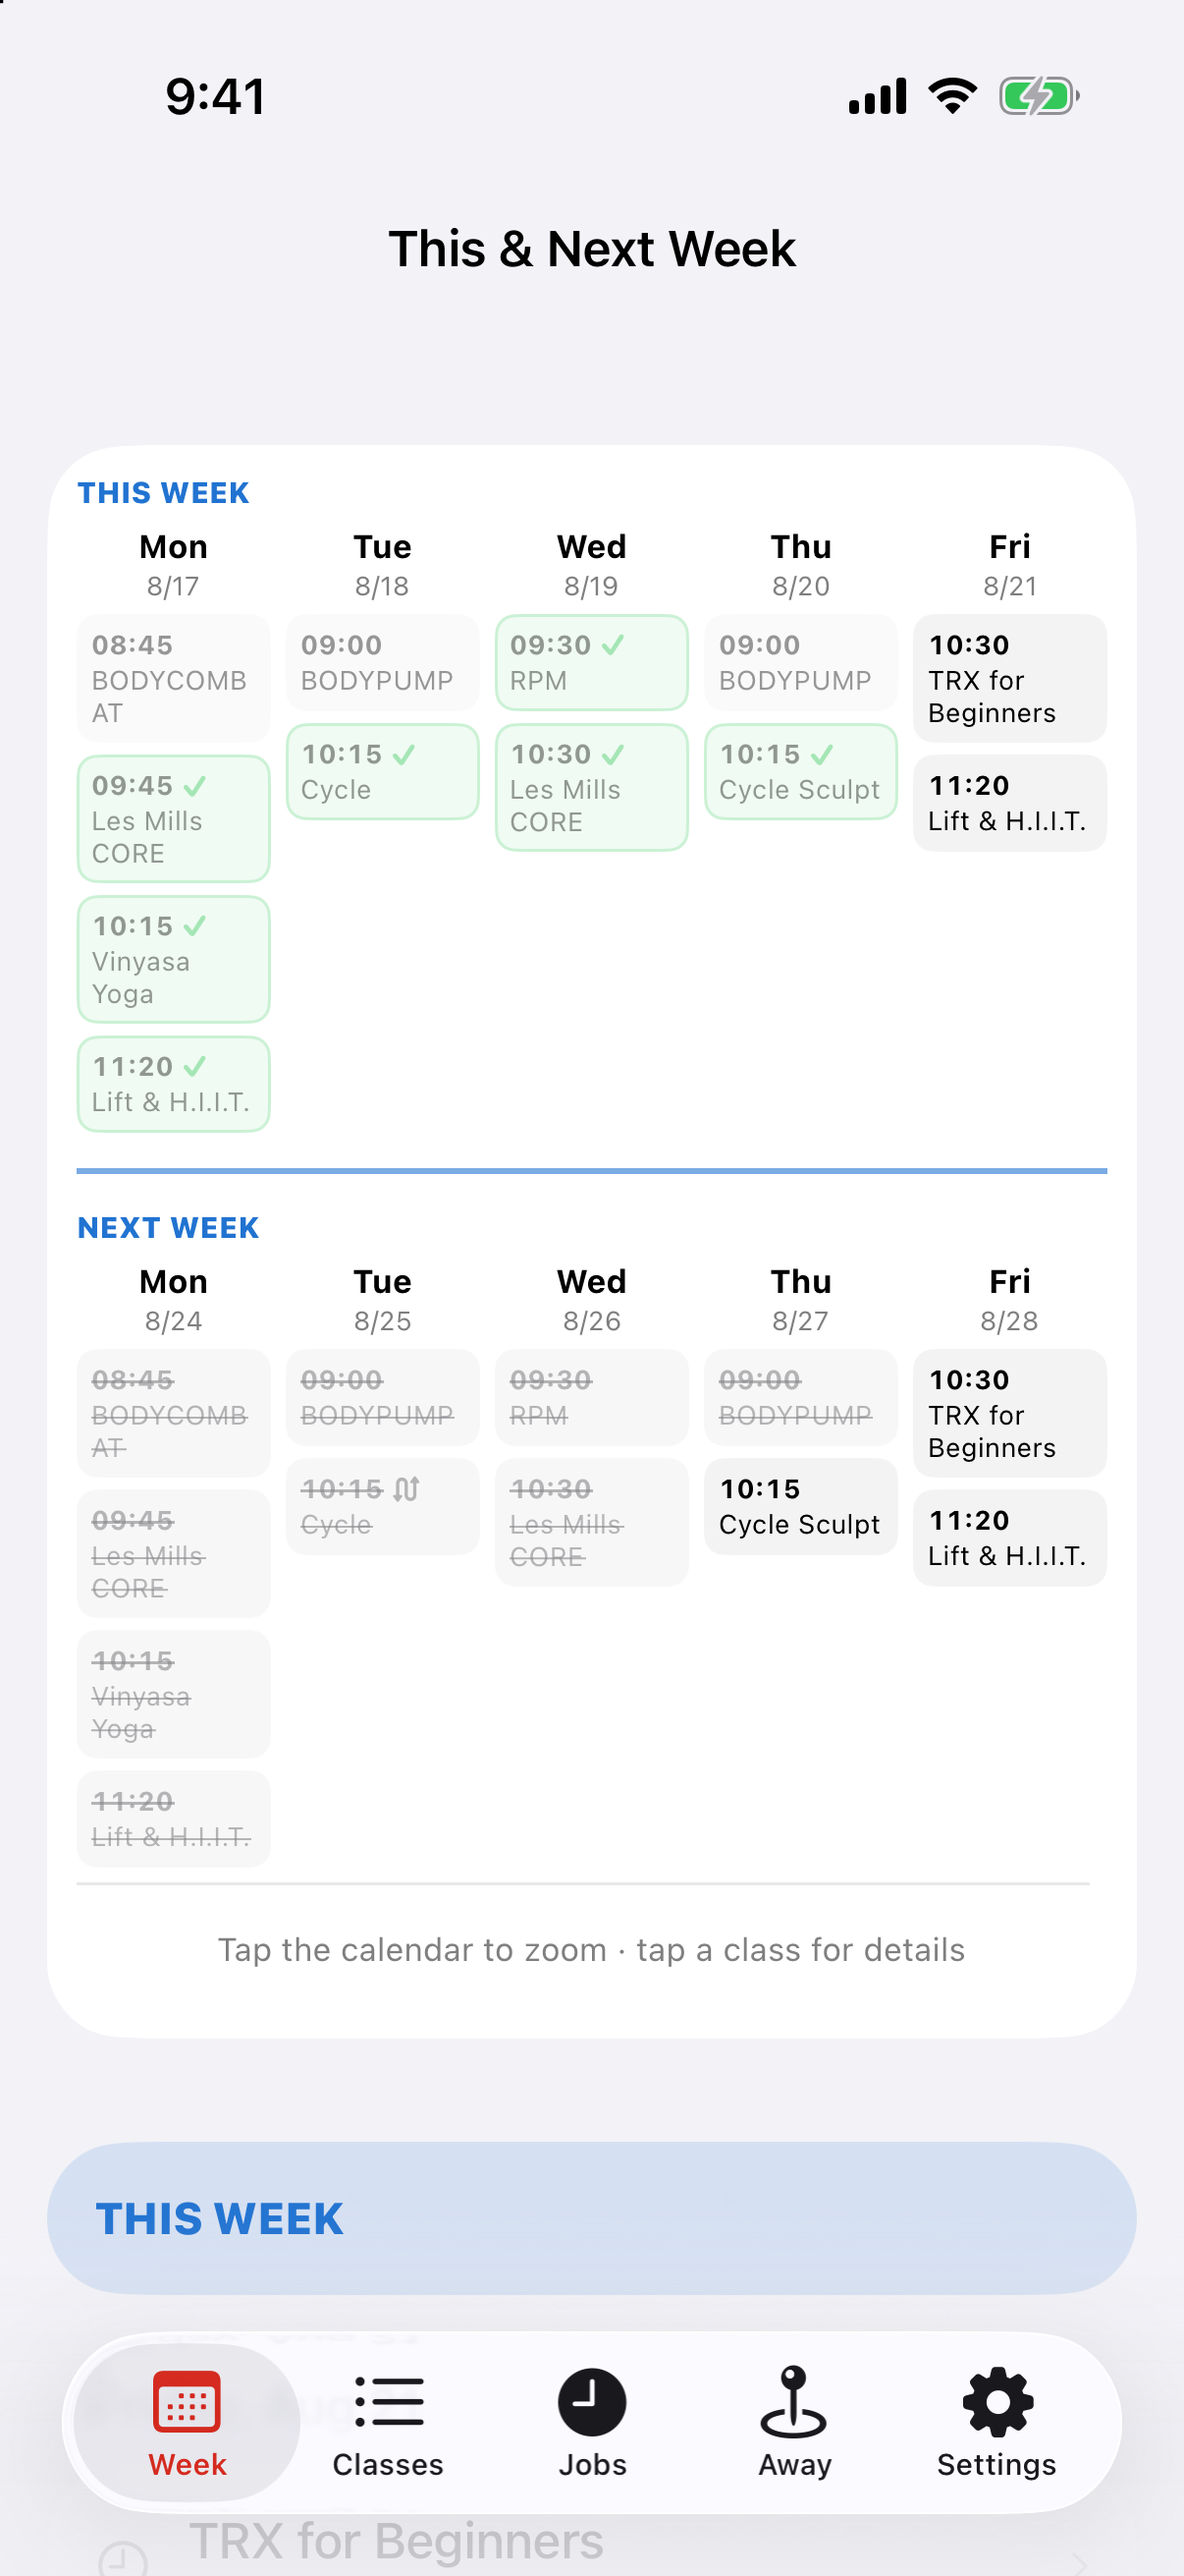
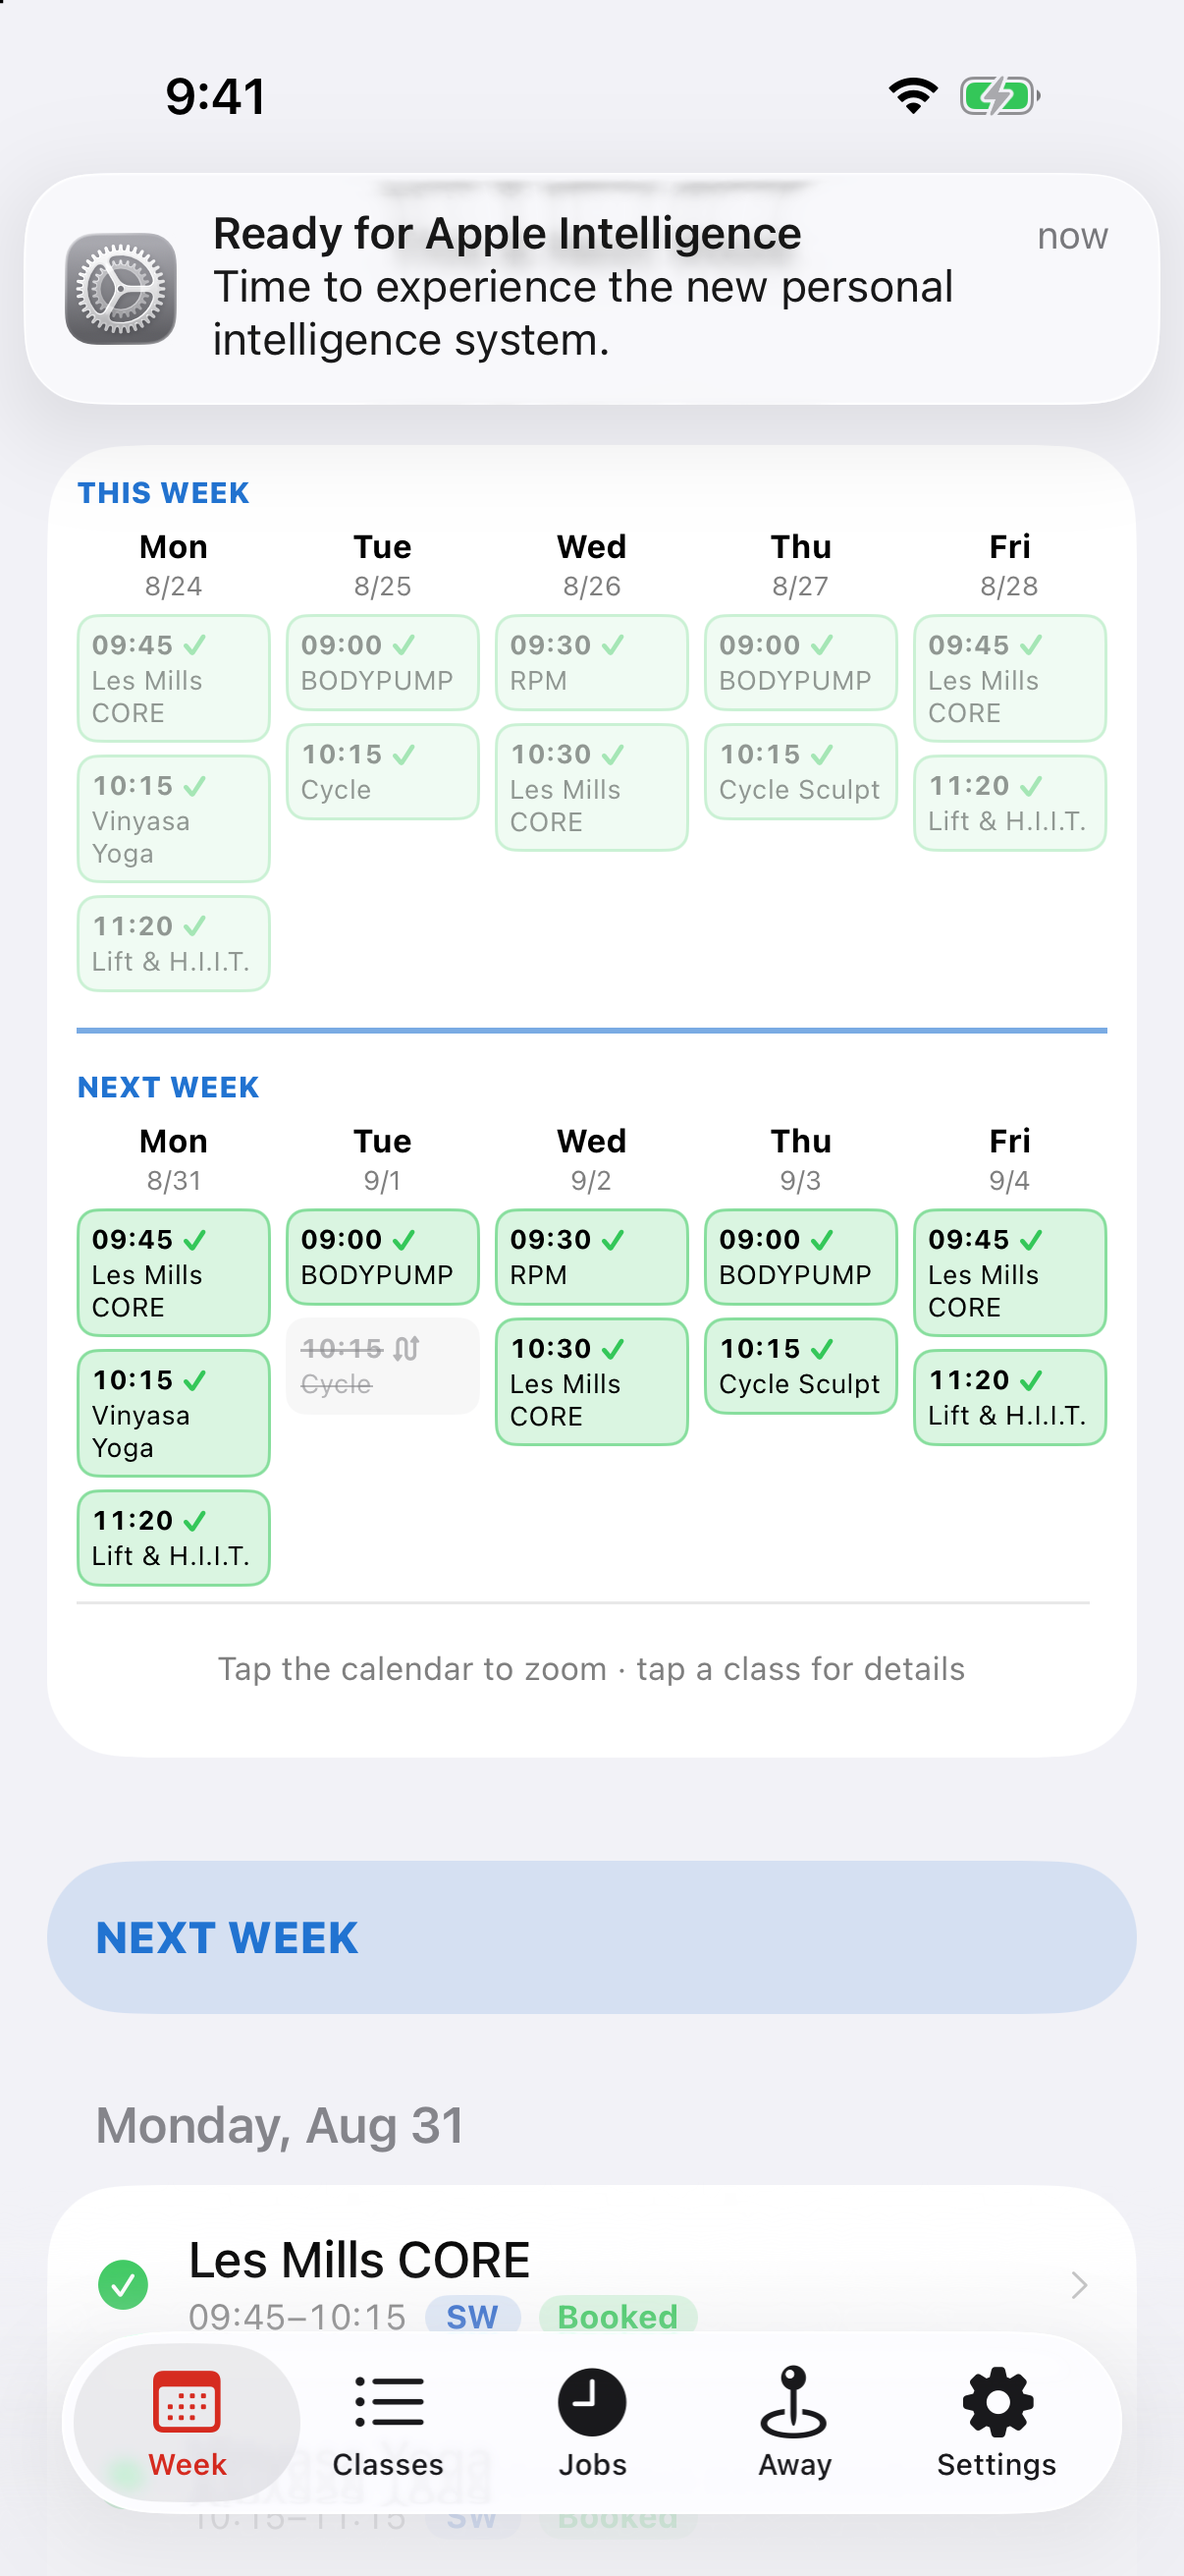
Refresh app screenshots to match the current class roster
SampleData still had bodycombat-mon and trx-beginners-fri (both dropped
months ago) and was missing core-fri entirely — every screenshot captured
from it was stale relative to the real classes.yml. Updated SampleData's
classes/ends/weekBookings to the current 11-class roster, and extended
weekBookings to cover both visible weeks (was this-week only) so the Week
screenshot shows two clean, fully-booked weeks rather than an unbooked-
looking "next week" — matching what the real app now looks like once a
week's classes have actually gone through their own booking windows.
Recaptured all four screenshots together for consistency (Week/Classes/
Jobs/Away all read from the same SampleData).

Claude-Session: https://claude.ai/code/session_01TinE6kP4yPHv2TZ2PdXNmB

diff --git a/ios/YmcaAutobook/Support/SampleData.swift b/ios/YmcaAutobook/Support/SampleData.swift
@@ -15,7 +15,6 @@ enum SampleMode {
 
 enum SampleData {
     static let classes: [GymClass] = [
-        GymClass(key: "bodycombat-mon", name: "BODYCOMBAT", weekday: .mon, start: "08:45", locationIds: [1392], firstLive: nil),
         GymClass(key: "core-mon", name: "Les Mills CORE", weekday: .mon, start: "09:45", locationIds: [1392], firstLive: nil),
         GymClass(key: "vinyasa-yoga-mon", name: "Vinyasa Yoga", weekday: .mon, start: "10:15", locationIds: [1392], firstLive: nil),
         GymClass(key: "lift-hiit-mon", name: "Lift & H.I.I.T.", weekday: .mon, start: "11:20", locationIds: [1392], firstLive: nil),
@@ -25,35 +24,58 @@ enum SampleData {
         GymClass(key: "core-wed", name: "Les Mills CORE", weekday: .wed, start: "10:30", locationIds: [1388], firstLive: nil),
         GymClass(key: "bodypump-thu", name: "BODYPUMP", weekday: .thu, start: "09:00", locationIds: [1392], firstLive: nil),
         GymClass(key: "cycle-sculpt-thu", name: "Cycle Sculpt", weekday: .thu, start: "10:15", locationIds: [1392], firstLive: nil),
-        GymClass(key: "trx-beginners-fri", name: "TRX for Beginners", weekday: .fri, start: "10:30", locationIds: [1392], firstLive: nil),
+        GymClass(key: "core-fri", name: "Les Mills CORE", weekday: .fri, start: "09:45", locationIds: [1388], firstLive: nil),
         GymClass(key: "lift-hiit-fri", name: "Lift & H.I.I.T.", weekday: .fri, start: "11:20", locationIds: [1392], firstLive: nil),
     ]
 
     /// name|weekday|start  ->  end time, for durations.
     static let ends: [String: String] = [
-        "BODYCOMBAT|Mon|08:45": "09:45", "Les Mills CORE|Mon|09:45": "10:15",
+        "Les Mills CORE|Mon|09:45": "10:15",
         "Vinyasa Yoga|Mon|10:15": "11:15", "Lift & H.I.I.T.|Mon|11:20": "12:00",
         "BODYPUMP|Tue|09:00": "10:00", "Cycle|Tue|10:15": "11:15",
         "RPM|Wed|09:30": "10:20", "Les Mills CORE|Wed|10:30": "11:00",
         "BODYPUMP|Thu|09:00": "10:00", "Cycle Sculpt|Thu|10:15": "11:15",
-        "TRX for Beginners|Fri|10:30": "11:15", "Lift & H.I.I.T.|Fri|11:20": "12:00",
+        "Les Mills CORE|Fri|09:45": "10:15", "Lift & H.I.I.T.|Fri|11:20": "12:00",
     ]
 
-    /// Booked classes for the current week (fictional instructors/rooms).
-    /// Keyed [weekdayOffset 0=Mon] -> list of (start,end,name,locId,room,instructor).
+    /// Booked classes, fictional instructors/rooms. Keyed [weekdayOffset from
+    /// currentMonday, 0=this Mon .. 11=next Fri] -> (start,end,name,locId,room,instructor).
+    /// Both weeks are fully booked so the Week screenshot shows two clean, all-green
+    /// weeks — booking opens ~7 days ahead, so by the time this week's Friday rolls
+    /// around, next week's classes have genuinely all been through their own booking
+    /// window already, same as this data models.
+    private static let mon: [(String, String, String, Int, String, String)] = [
+        ("09:45", "10:15", "Les Mills CORE", 1392, "Southwest – Rec Room", "Jordan A."),
+        ("10:15", "11:15", "Vinyasa Yoga", 1392, "Southwest – Studio 2", "Priya M."),
+        ("11:20", "12:00", "Lift & H.I.I.T.", 1392, "Southwest – Group Exercise Room", "Marcus D."),
+    ]
+    private static let tue: [(String, String, String, Int, String, String)] = [
+        ("09:00", "10:00", "BODYPUMP", 1392, "Southwest – Group Exercise Room", "Gini B."),
+        ("10:15", "11:15", "Cycle", 1392, "Southwest – Rec Room", "Dana K."),
+    ]
+    private static let wed: [(String, String, String, Int, String, String)] = [
+        ("09:30", "10:20", "RPM", 1388, "Northwest – Group Exercise Room", "Sam R."),
+        ("10:30", "11:00", "Les Mills CORE", 1388, "Northwest – Family Pavilion", "Jordan A."),
+    ]
+    private static let thu: [(String, String, String, Int, String, String)] = [
+        ("09:00", "10:00", "BODYPUMP", 1392, "Southwest – Group Exercise Room", "Sophia B."),
+        ("10:15", "11:15", "Cycle Sculpt", 1392, "Southwest – Group Exercise Room", "Nina T."),
+    ]
+    private static let fri: [(String, String, String, Int, String, String)] = [
+        ("09:45", "10:15", "Les Mills CORE", 1388, "Northwest – Family Pavilion", "Eyal B."),
+        ("11:20", "12:00", "Lift & H.I.I.T.", 1392, "Southwest – Group Exercise Room", "Marcus D."),
+    ]
     static let weekBookings: [Int: [(String, String, String, Int, String, String)]] = [
-        0: [("09:45", "10:15", "Les Mills CORE", 1392, "Southwest – Rec Room", "Jordan A."),
-            ("10:15", "11:15", "Vinyasa Yoga", 1392, "Southwest – Studio 2", "Priya M."),
-            ("11:20", "12:00", "Lift & H.I.I.T.", 1392, "Southwest – Group Exercise Room", "Marcus D.")],
-        1: [("10:15", "11:15", "Cycle", 1392, "Southwest – Rec Room", "Dana K.")],
-        2: [("09:30", "10:20", "RPM", 1388, "Northwest – Group Exercise Room", "Sam R."),
-            ("10:30", "11:00", "Les Mills CORE", 1388, "Northwest – Family Pavilion", "Jordan A.")],
-        3: [("10:15", "11:15", "Cycle Sculpt", 1392, "Southwest – Group Exercise Room", "Nina T.")],
+        0: mon, 1: tue, 2: wed, 3: thu, 4: fri,
+        7: mon, 8: tue, 9: wed, 10: thu, 11: fri,
     ]
 
+    /// Offsets pushed past the visible two-week grid so the Week screenshot's
+    /// two weeks stay clean and fully booked; the Away tab still has something
+    /// upcoming to show.
     static let awayNotes: [(offsetFromThisMon: Int, days: Int, note: String, except: [String])] = [
-        (7, 3, "Away Mon–Wed", []),
-        (10, 1, "Half day — keep morning class", ["cycle-sculpt-thu"]),
+        (14, 3, "Away Mon–Wed", []),
+        (17, 1, "Half day — keep morning class", ["cycle-sculpt-thu"]),
     ]
 
     /// One-off swaps, dated relative to this week's Monday so screenshots always
